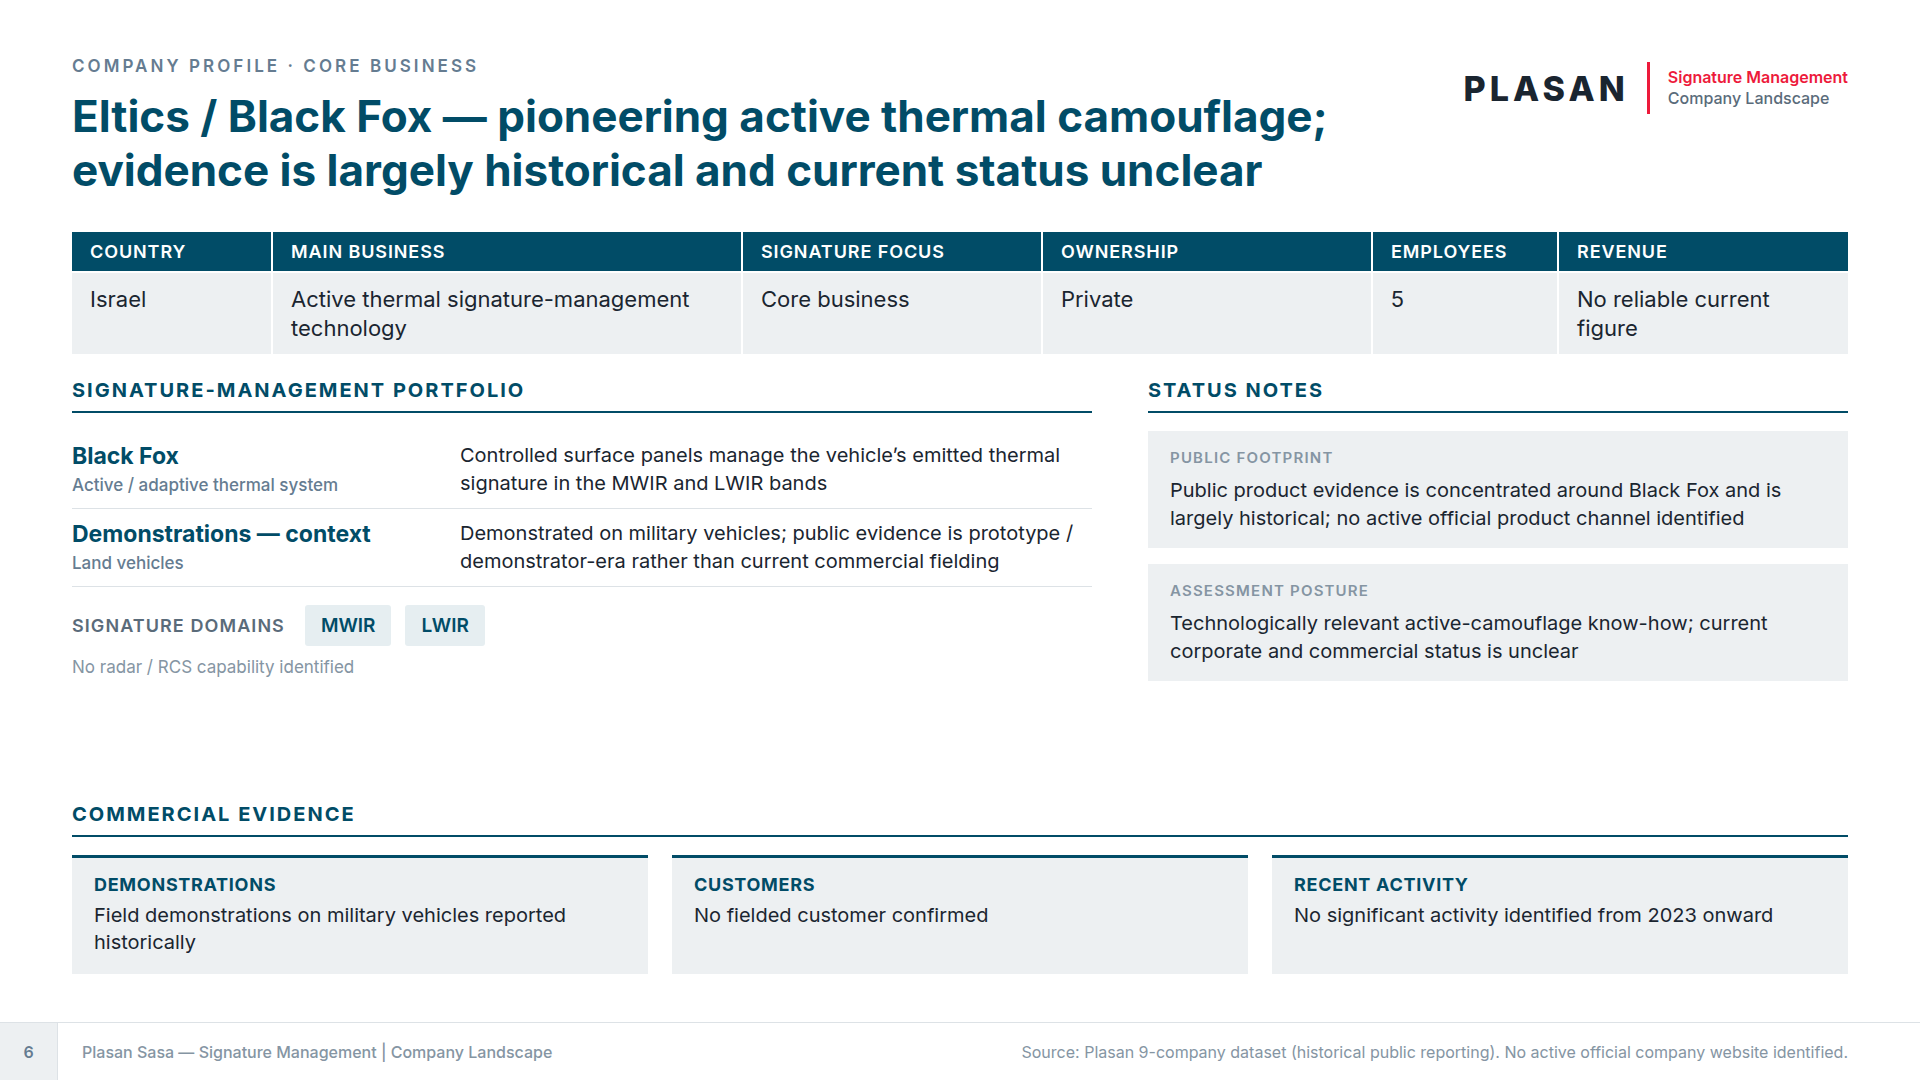
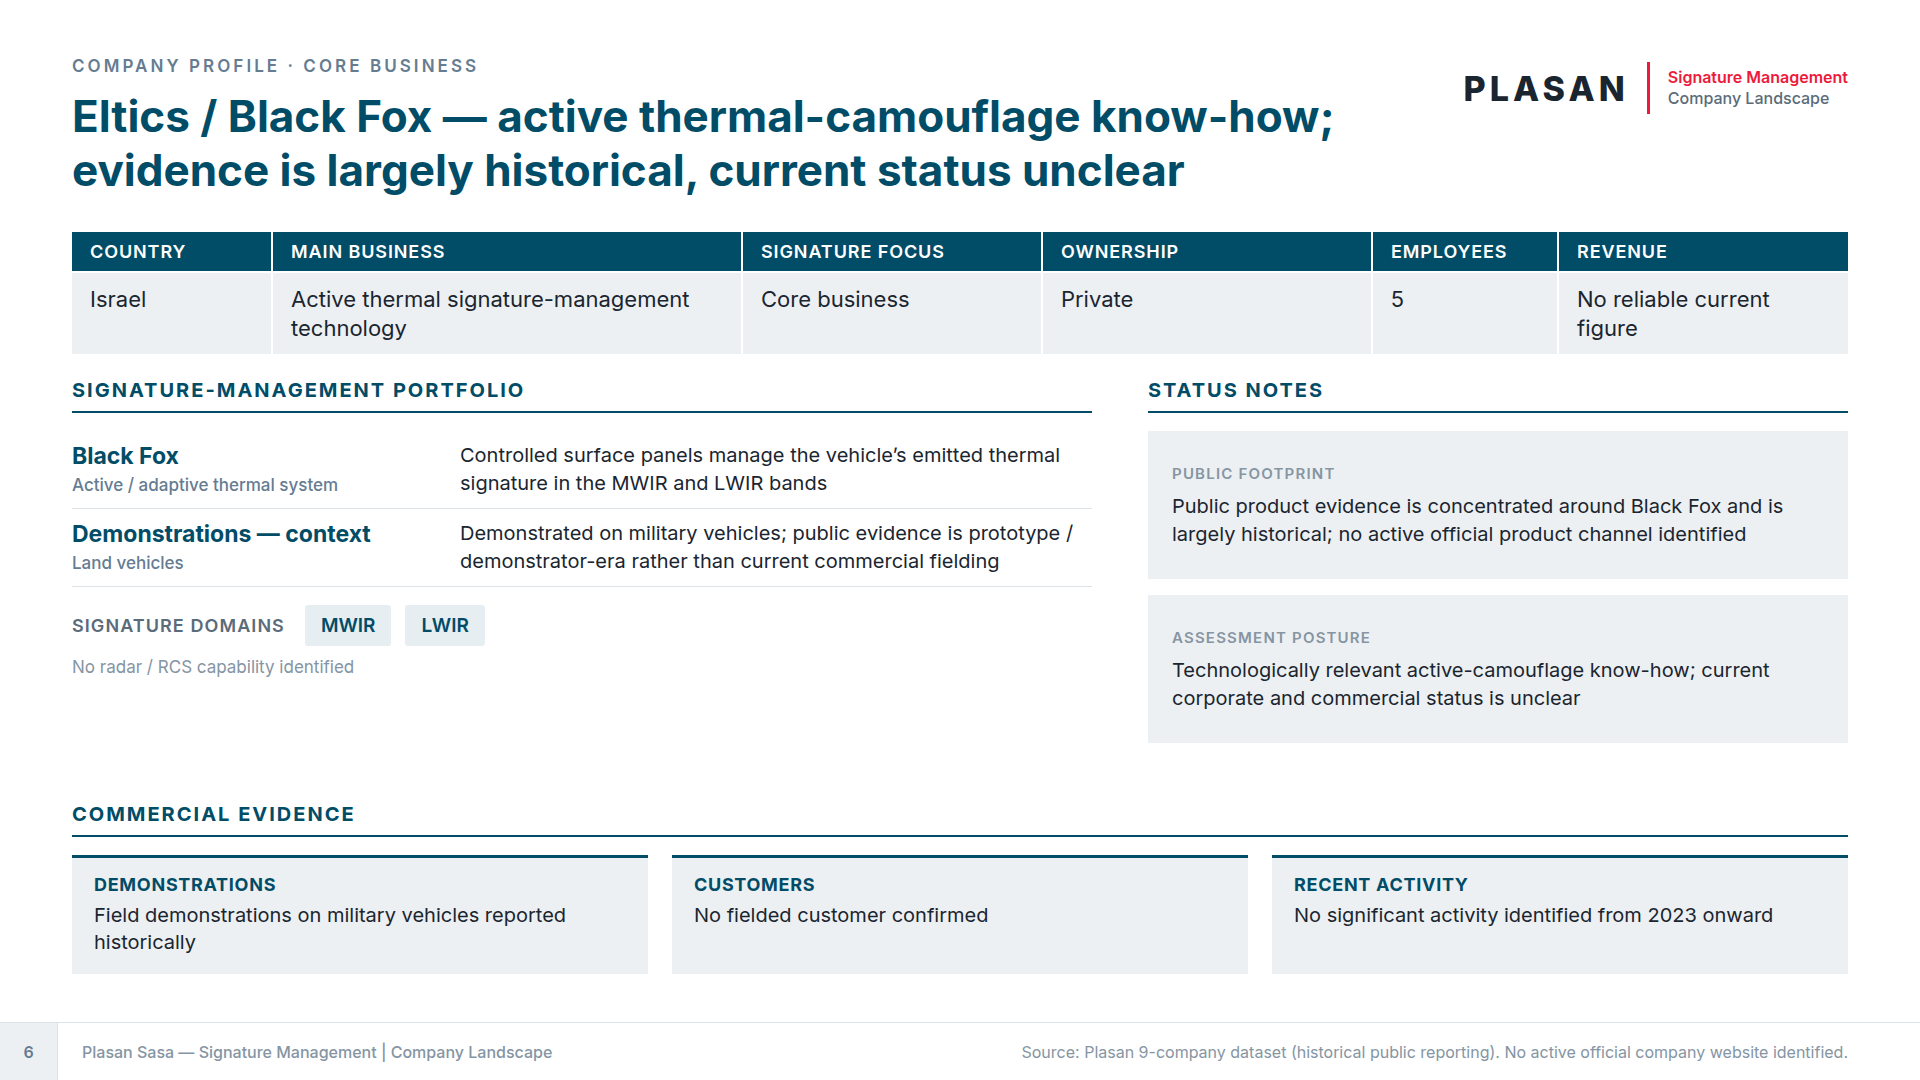
Verification round on full deck: fact precision + visual polish
- Permali title: 'established' not 'fielded' (dataset status is Commercial)
- AMD ownership corrected: AMD Ltd (UK) parent, AMD Inc. its U.S. arm
- Eltics title: drop unsupported 'pioneering'; STG personnel rows merged
- Cover: red square anchored to footer line, slate slab aligned to title block
- Eltics status notes sized to the image-slot footprint (no whitespace hole)
- Revenue notation unified (one tilde, one currency style)
- AMD title keeps 'radar-signature' unbroken across lines

Claude-Session: https://claude.ai/code/session_01RU6D1gSQC4jmirTAyzPY5q

Changed region(s): [[0.5938, 0.3972, 0.9375, 0.6722], [0.25, 0.0917, 0.6875, 0.1833]]

diff --git a/deck.html b/deck.html
@@ -228,8 +228,8 @@ h1.title { font-size: var(--fs-title); font-weight: 700; color: var(--c-primary)
 .cv-title { font-size: 86px; font-weight: 800; color: var(--c-primary); line-height: 1.12; letter-spacing: -.01em; }
 .cv-sub { font-size: 32px; color: var(--c-text-muted); margin-top: 30px; line-height: 1.35; }
 .cv-date { font-size: 22px; color: var(--c-text-faint); margin-top: 52px; font-weight: 500; }
-.cv-red { position: absolute; left: var(--m-side); bottom: 128px; width: 132px; height: 132px; background: var(--c-red); }
-.cv-slab { position: absolute; right: 0; top: 186px; width: 20px; height: 150px; background: var(--c-slate); }
+.cv-red { position: absolute; left: var(--m-side); bottom: 58px; width: 120px; height: 120px; background: var(--c-red); }
+.cv-slab { position: absolute; right: 0; top: 330px; width: 20px; height: 208px; background: var(--c-slate); }
 .cv-lockup { position: absolute; top: var(--m-top); left: var(--m-side); }
 
 /* ============================================================
@@ -252,7 +252,7 @@ h1.title { font-size: var(--fs-title); font-weight: 700; color: var(--c-primary)
 /* ---------- profile extras ---------- */
 .pf-bands { flex-wrap: wrap; }
 .pf-bandqual { font-size: 17px; color: var(--c-text-faint); margin-top: 10px; line-height: 1.35; }
-.pf-note { background: var(--c-fill); padding: 16px 22px; margin-bottom: 16px; font-size: 20px; line-height: 1.4; color: var(--c-text); }
+.pf-note { background: var(--c-fill); padding: 16px 24px; margin-bottom: 16px; font-size: 20px; line-height: 1.4; color: var(--c-text); min-height: 148px; display: flex; flex-direction: column; justify-content: center; }
 .pf-note .nlbl { font-size: 15px; font-weight: 600; letter-spacing: .08em; color: var(--c-text-faint); text-transform: uppercase; margin-bottom: 8px; }
 </style>
 
@@ -415,7 +415,7 @@ h1.title { font-size: var(--fs-title); font-weight: 700; color: var(--c-primary)
       <td class="prod"><b>SolarSigmaShield</b> vehicle camouflage system; multispectral nets</td>
       <td>Visual · Thermal IR · Radar</td>
       <td><span class="chip chip-fielded">Fielded / Commercial</span></td>
-      <td class="num">11–50<br><span class="qual">~$6M (est.)</span></td>
+      <td class="num">11–50<br><span class="qual">≈$6M (est.)</span></td>
     </tr>
     <tr>
       <td><div class="co">Ravelin Defense<small>US · formerly ArmorWorks</small></div></td>
@@ -440,7 +440,7 @@ h1.title { font-size: var(--fs-title); font-weight: 700; color: var(--c-primary)
       <td class="prod"><b>Shieldex® Zell RS CR</b> metallized textile — enabling material</td>
       <td>Thermal IR · RF / EMI shield<br><span class="qual">not RCS reduction</span></td>
       <td><span class="chip chip-comm">Commercial</span></td>
-      <td class="num">~50<br><span class="qual">~$31M (est.)</span></td>
+      <td class="num">~50<br><span class="qual">≈$31M (est.)</span></td>
     </tr>
   </table>
 
@@ -574,7 +574,7 @@ h1.title { font-size: var(--fs-title); font-weight: 700; color: var(--c-primary)
   <div class="hdr">
     <div class="hdr-titles">
       <div class="kicker">Company Profile · Core Business</div>
-      <h1 class="title">Eltics / Black Fox — pioneering active thermal camouflage; evidence is largely historical and current status unclear</h1>
+      <h1 class="title">Eltics / Black Fox — active thermal-camouflage know-how; evidence is largely historical, current status unclear</h1>
     </div>
     <div class="lockup"><span class="word">PLASAN</span><span class="bar"></span><span class="desc"><b>Signature Management</b>Company Landscape</span></div>
   </div>
@@ -672,12 +672,8 @@ h1.title { font-size: var(--fs-title); font-weight: 700; color: var(--c-primary)
         <div class="pdesc">Rapid concealment for vehicles, armored platforms, artillery and command / equipment positions</div>
       </div>
       <div class="prow">
-        <div><div class="pname">Thermal Signature Poncho</div><div class="ptype">Personnel — launched 2025</div></div>
-        <div class="pdesc">Personnel thermal concealment, launched and demonstrated in 2025</div>
-      </div>
-      <div class="prow">
-        <div><div class="pname">Thermal Signature Suit</div><div class="ptype">Personnel</div></div>
-        <div class="pdesc">Personnel thermal-concealment system</div>
+        <div><div class="pname">Thermal Signature Poncho / Suit</div><div class="ptype">Personnel</div></div>
+        <div class="pdesc">Personnel thermal-concealment systems; the poncho was launched and demonstrated in 2025</div>
       </div>
       <div class="pf-bands">
         <span class="blbl">Signature domains</span>
@@ -811,7 +807,7 @@ h1.title { font-size: var(--fs-title); font-weight: 700; color: var(--c-primary)
   <div class="hdr">
     <div class="hdr-titles">
       <div class="kicker">Company Profile · Major Business Line</div>
-      <h1 class="title">Advanced Material Development — adaptive IR and radar-signature materials in active defence trials, not yet fielded</h1>
+      <h1 class="title">Advanced Material Development — adaptive IR and <span style="white-space:nowrap">radar-signature</span> materials in defence trials, not yet fielded</h1>
     </div>
     <div class="lockup"><span class="word">PLASAN</span><span class="bar"></span><span class="desc"><b>Signature Management</b>Company Landscape</span></div>
   </div>
@@ -825,7 +821,7 @@ h1.title { font-size: var(--fs-title); font-weight: 700; color: var(--c-primary)
       <td>US / UK</td>
       <td>Nanomaterials &amp; advanced coatings — defence is one of several markets</td>
       <td>Major business line</td>
-      <td>Private — U.S. defence subsidiary of AMD Ltd (UK)</td>
+      <td>Private — AMD Ltd (UK); U.S. arm AMD Inc.</td>
       <td>2–10</td>
       <td>No reliable public figure</td>
     </tr>
@@ -911,7 +907,7 @@ h1.title { font-size: var(--fs-title); font-weight: 700; color: var(--c-primary)
       <td>Major business line</td>
       <td>Private — CBG Systems Pty&nbsp;Ltd</td>
       <td>11–50</td>
-      <td>≈US$6M <span class="q">(third-party estimate)</span></td>
+      <td>≈$6M <span class="q">(third-party estimate)</span></td>
     </tr>
   </table>
 
@@ -1061,7 +1057,7 @@ h1.title { font-size: var(--fs-title); font-weight: 700; color: var(--c-primary)
   <div class="hdr">
     <div class="hdr-titles">
       <div class="kicker">Company Profile · Adjacent Offering</div>
-      <h1 class="title">Permali — defence composites with one fielded signature application: suppressing the armored vehicle’s dust plume</h1>
+      <h1 class="title">Permali — defence composites with an established signature application: suppressing the armored vehicle’s dust plume</h1>
     </div>
     <div class="lockup"><span class="word">PLASAN</span><span class="bar"></span><span class="desc"><b>Signature Management</b>Company Landscape</span></div>
   </div>

diff --git a/deck_template.html b/deck_template.html
@@ -228,8 +228,8 @@ h1.title { font-size: var(--fs-title); font-weight: 700; color: var(--c-primary)
 .cv-title { font-size: 86px; font-weight: 800; color: var(--c-primary); line-height: 1.12; letter-spacing: -.01em; }
 .cv-sub { font-size: 32px; color: var(--c-text-muted); margin-top: 30px; line-height: 1.35; }
 .cv-date { font-size: 22px; color: var(--c-text-faint); margin-top: 52px; font-weight: 500; }
-.cv-red { position: absolute; left: var(--m-side); bottom: 128px; width: 132px; height: 132px; background: var(--c-red); }
-.cv-slab { position: absolute; right: 0; top: 186px; width: 20px; height: 150px; background: var(--c-slate); }
+.cv-red { position: absolute; left: var(--m-side); bottom: 58px; width: 120px; height: 120px; background: var(--c-red); }
+.cv-slab { position: absolute; right: 0; top: 330px; width: 20px; height: 208px; background: var(--c-slate); }
 .cv-lockup { position: absolute; top: var(--m-top); left: var(--m-side); }
 
 /* ============================================================
@@ -252,7 +252,7 @@ h1.title { font-size: var(--fs-title); font-weight: 700; color: var(--c-primary)
 /* ---------- profile extras ---------- */
 .pf-bands { flex-wrap: wrap; }
 .pf-bandqual { font-size: 17px; color: var(--c-text-faint); margin-top: 10px; line-height: 1.35; }
-.pf-note { background: var(--c-fill); padding: 16px 22px; margin-bottom: 16px; font-size: 20px; line-height: 1.4; color: var(--c-text); }
+.pf-note { background: var(--c-fill); padding: 16px 24px; margin-bottom: 16px; font-size: 20px; line-height: 1.4; color: var(--c-text); min-height: 148px; display: flex; flex-direction: column; justify-content: center; }
 .pf-note .nlbl { font-size: 15px; font-weight: 600; letter-spacing: .08em; color: var(--c-text-faint); text-transform: uppercase; margin-bottom: 8px; }
 </style>
 
@@ -415,7 +415,7 @@ h1.title { font-size: var(--fs-title); font-weight: 700; color: var(--c-primary)
       <td class="prod"><b>SolarSigmaShield</b> vehicle camouflage system; multispectral nets</td>
       <td>Visual · Thermal IR · Radar</td>
       <td><span class="chip chip-fielded">Fielded / Commercial</span></td>
-      <td class="num">11–50<br><span class="qual">~$6M (est.)</span></td>
+      <td class="num">11–50<br><span class="qual">≈$6M (est.)</span></td>
     </tr>
     <tr>
       <td><div class="co">Ravelin Defense<small>US · formerly ArmorWorks</small></div></td>
@@ -440,7 +440,7 @@ h1.title { font-size: var(--fs-title); font-weight: 700; color: var(--c-primary)
       <td class="prod"><b>Shieldex® Zell RS CR</b> metallized textile — enabling material</td>
       <td>Thermal IR · RF / EMI shield<br><span class="qual">not RCS reduction</span></td>
       <td><span class="chip chip-comm">Commercial</span></td>
-      <td class="num">~50<br><span class="qual">~$31M (est.)</span></td>
+      <td class="num">~50<br><span class="qual">≈$31M (est.)</span></td>
     </tr>
   </table>
 
@@ -574,7 +574,7 @@ h1.title { font-size: var(--fs-title); font-weight: 700; color: var(--c-primary)
   <div class="hdr">
     <div class="hdr-titles">
       <div class="kicker">Company Profile · Core Business</div>
-      <h1 class="title">Eltics / Black Fox — pioneering active thermal camouflage; evidence is largely historical and current status unclear</h1>
+      <h1 class="title">Eltics / Black Fox — active thermal-camouflage know-how; evidence is largely historical, current status unclear</h1>
     </div>
     <div class="lockup"><span class="word">PLASAN</span><span class="bar"></span><span class="desc"><b>Signature Management</b>Company Landscape</span></div>
   </div>
@@ -672,12 +672,8 @@ h1.title { font-size: var(--fs-title); font-weight: 700; color: var(--c-primary)
         <div class="pdesc">Rapid concealment for vehicles, armored platforms, artillery and command / equipment positions</div>
       </div>
       <div class="prow">
-        <div><div class="pname">Thermal Signature Poncho</div><div class="ptype">Personnel — launched 2025</div></div>
-        <div class="pdesc">Personnel thermal concealment, launched and demonstrated in 2025</div>
-      </div>
-      <div class="prow">
-        <div><div class="pname">Thermal Signature Suit</div><div class="ptype">Personnel</div></div>
-        <div class="pdesc">Personnel thermal-concealment system</div>
+        <div><div class="pname">Thermal Signature Poncho / Suit</div><div class="ptype">Personnel</div></div>
+        <div class="pdesc">Personnel thermal-concealment systems; the poncho was launched and demonstrated in 2025</div>
       </div>
       <div class="pf-bands">
         <span class="blbl">Signature domains</span>
@@ -811,7 +807,7 @@ h1.title { font-size: var(--fs-title); font-weight: 700; color: var(--c-primary)
   <div class="hdr">
     <div class="hdr-titles">
       <div class="kicker">Company Profile · Major Business Line</div>
-      <h1 class="title">Advanced Material Development — adaptive IR and radar-signature materials in active defence trials, not yet fielded</h1>
+      <h1 class="title">Advanced Material Development — adaptive IR and <span style="white-space:nowrap">radar-signature</span> materials in defence trials, not yet fielded</h1>
     </div>
     <div class="lockup"><span class="word">PLASAN</span><span class="bar"></span><span class="desc"><b>Signature Management</b>Company Landscape</span></div>
   </div>
@@ -825,7 +821,7 @@ h1.title { font-size: var(--fs-title); font-weight: 700; color: var(--c-primary)
       <td>US / UK</td>
       <td>Nanomaterials &amp; advanced coatings — defence is one of several markets</td>
       <td>Major business line</td>
-      <td>Private — U.S. defence subsidiary of AMD Ltd (UK)</td>
+      <td>Private — AMD Ltd (UK); U.S. arm AMD Inc.</td>
       <td>2–10</td>
       <td>No reliable public figure</td>
     </tr>
@@ -911,7 +907,7 @@ h1.title { font-size: var(--fs-title); font-weight: 700; color: var(--c-primary)
       <td>Major business line</td>
       <td>Private — CBG Systems Pty&nbsp;Ltd</td>
       <td>11–50</td>
-      <td>≈US$6M <span class="q">(third-party estimate)</span></td>
+      <td>≈$6M <span class="q">(third-party estimate)</span></td>
     </tr>
   </table>
 
@@ -1061,7 +1057,7 @@ h1.title { font-size: var(--fs-title); font-weight: 700; color: var(--c-primary)
   <div class="hdr">
     <div class="hdr-titles">
       <div class="kicker">Company Profile · Adjacent Offering</div>
-      <h1 class="title">Permali — defence composites with one fielded signature application: suppressing the armored vehicle’s dust plume</h1>
+      <h1 class="title">Permali — defence composites with an established signature application: suppressing the armored vehicle’s dust plume</h1>
     </div>
     <div class="lockup"><span class="word">PLASAN</span><span class="bar"></span><span class="desc"><b>Signature Management</b>Company Landscape</span></div>
   </div>
